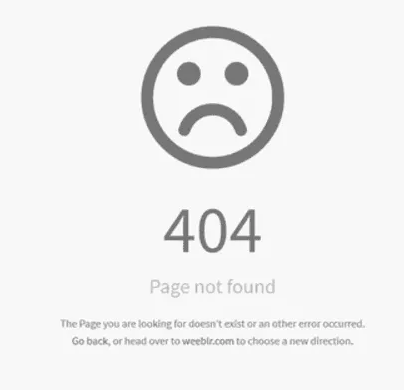
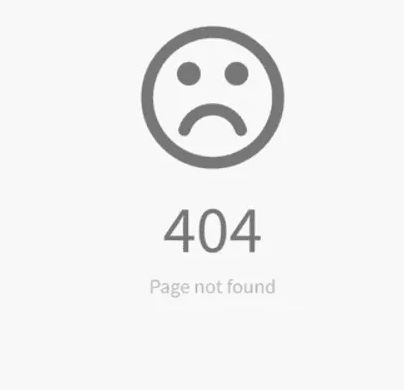
revert code of landing page preview in iframe

Changed region(s): [[0.1485, 0.8, 0.8911, 0.8923]]

diff --git a/src/components/TableLandingPages.js b/src/components/TableLandingPages.js
@@ -1,12 +1,10 @@
-import React, { useEffect, useRef, useState } from 'react';
+import React, { useState } from 'react';
 import { PropTypes } from 'prop-types';
 import DataTable from 'react-data-table-component';
 
 const pageNotFound = '../assets/images/404.png';
 
 const TableLandingPages = ({landingPages}) => {
-  const ifRef = useRef();
-  const [isIframeError, setIframeError] = useState(false);
   const [pageUrl, setPageUrl] = useState((landingPages.length) ? landingPages[0].landingPageURL : '');
   const [activePageId, setActivePageId] = useState((landingPages.length) ? landingPages[0].id : '');
   const [columns] = useState([
@@ -93,15 +91,6 @@ const TableLandingPages = ({landingPages}) => {
     },
   ];
 
-  useEffect(() => {
-    if (ifRef.current) {
-      ifRef.current.onload = event => {
-        const isLoaded = event.target.contentWindow.window.length; // 0 or 1
-        setIframeError(isLoaded ? false : true);
-      };
-    }
-  }, []);
-
   return (
     <div className="card card-table">
       <div className="row">
@@ -119,11 +108,7 @@ const TableLandingPages = ({landingPages}) => {
         <div className="col-md-4">
           <div className="card-image ">
             <div className="page-on-phone-preview">
-              {
-                (pageUrl && !isIframeError)
-                  ? <iframe ref={ifRef} src={pageUrl} />
-                  : <object data={pageNotFound} />
-              }
+              <iframe src={(pageUrl === null || pageUrl === '') ? pageNotFound : pageUrl} />
             </div>
           </div>
         </div>
